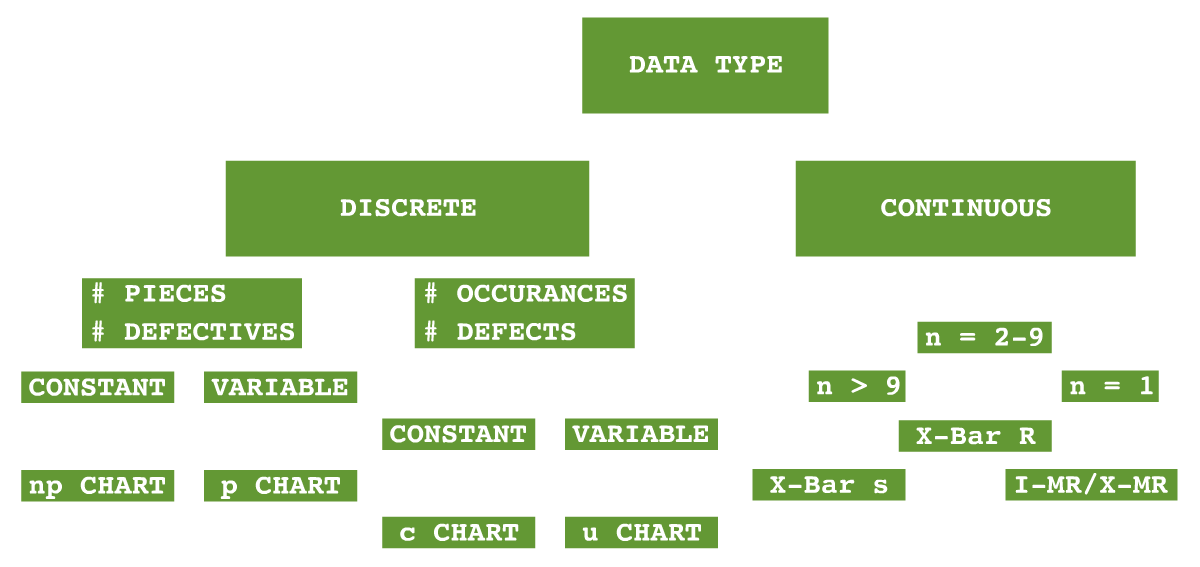
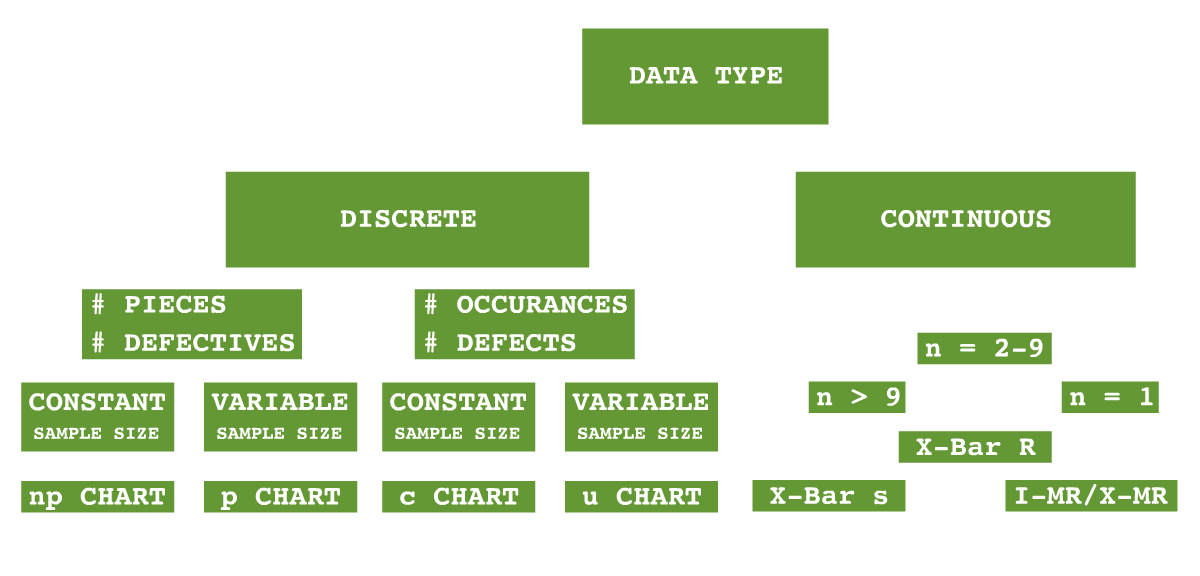
Add discrete charts

diff --git a/quality-management/charts/pn.md b/quality-management/charts/pn.md
@@ -1,0 +1,41 @@
+---
+layout: page
+title: Charts | pn Chart
+description: Number of defectives when subgroup size is constant
+image: nil
+nav-menu: false
+show_tile: false
+---
+
+<a href="../binomial.html" class="button small">Binomial</a>
+<a href="../poisson.html" class="button small">Poisson</a>
+<a href="../normal" class="button small">Normal</a>
+<a href="./" class="button special small">Charts</a>
+
+<hr />
+
+<a href="./" style="border-bottom: none;"><i class="icon fa-home">&nbsp;</i></a>
+<a href="p.html" class="button small">p Chart</a>
+<a href="pn.html" class="button special small">pn Chart</a>
+<a href="u.html" class="button small">u Chart</a>
+<a href="c.html" class="button small">c Chart</a>
+<a href="xbar-r.html" class="button small">X-Bar R</a>
+<a href="xbar-s.html" class="button small">X-Bar s</a>
+<a href="i-mr_x-mr.html" class="button small">I-MR / X-MR</a>
+
+<a href="/quality-management">&#x2190; Back to Quality Management</a>
+
+A pn chart is used when we're looking a the `number of defectives` and the subgroup size is `constant`.  Here, the distribution is `Binomial`, since an item is either defective or it's not.  Two states!  For instance, you may check a sample of your product daily and determine the number of defective items in that sample and the sample size you check is always the same, everyday.  This is where pn charts are useful.
+
+For a pn chart, the <code>n</code> is representative of the number of items inspected, while the <code>p</code> is representative of the proportion of defectives.  Thus, if the number sampled is <code>100</code> and the proportion of defects is <code>0.02</code>, then <code>pn</code> will be <code>2</code> defective items.
+
+## Control Limits
+
+Since the subgroup size is constant, so the upper and lower control limits (UCL & LCL) are also constant.  Remember, pn charts represent a `Binomial` distribution.  Therefore, the <a href="../binomial.html">Binomial calculations apply</a>.
+
+* Control Line (CL) = <span style="text-decoration: overline;">p</span>n = <code><sup>total defectives</sup>/<sub>total inspected</sub> = <sup>&Sigma;pn</sup>/<sub>&Sigma;n</sub></code>
+* Upper Control Limit (UCL) = <code><span style="text-decoration: overline;">p</span>n + 3&radic;<span style="text-decoration: overline;"> </span>&nbsp;<span style="text-decoration: overline;">p</span>n(1 - <span style="text-decoration: overline;">p</span>)</code>
+* Lower Control Limit (LCL) = <code><span style="text-decoration: overline;">p</span>n - 3&radic;<span style="text-decoration: overline;"> </span>&nbsp;<span style="text-decoration: overline;">p</span>n(1 - <span style="text-decoration: overline;">p</span>)</code>
+
+
+<a href="/quality-management">&#x2190; Back to Quality Management</a>

diff --git a/quality-management/charts/p.md b/quality-management/charts/p.md
@@ -1,0 +1,39 @@
+---
+layout: page
+title: Charts | p Chart
+description: Number of defectives when subgroup size is variable
+image: nil
+nav-menu: false
+show_tile: false
+---
+
+<a href="../binomial.html" class="button small">Binomial</a>
+<a href="../poisson.html" class="button small">Poisson</a>
+<a href="../normal" class="button small">Normal</a>
+<a href="./" class="button special small">Charts</a>
+
+<hr />
+
+<a href="./" style="border-bottom: none;"><i class="icon fa-home">&nbsp;</i></a>
+<a href="p.html" class="button special small">p Chart</a>
+<a href="pn.html" class="button small">pn Chart</a>
+<a href="u.html" class="button small">u Chart</a>
+<a href="c.html" class="button small">c Chart</a>
+<a href="xbar-r.html" class="button small">X-Bar R</a>
+<a href="xbar-s.html" class="button small">X-Bar s</a>
+<a href="i-mr_x-mr.html" class="button small">I-MR / X-MR</a>
+
+<a href="/quality-management">&#x2190; Back to Quality Management</a>
+
+A p chart is used when we're looking a the `number of defectives` and the subgroup size is `variable`.  Here, the distribution is `Binomial`, since an item is either defective or it's not.  Two states!  For instance, you may check a sample of your product daily and determine the number of defective items in that sample, but the sample size might not be the same amount each day.  This is where p charts are useful.
+
+## Control Limits
+
+Since the subgroup size is NOT constant, so the upper and lower control limits (UCL & LCL) are NOT constant, either.  So, for every sample, there will be a separate upper and lower control limit.  This results in having a `narrower` control limit the larger your sample size is.  Remember, p charts represent a `Binomial` distribution.  Therefore, the <a href="../binomial.html">Binomial calculations apply</a>.
+
+* Control Line (CL) = <span style="text-decoration: overline;">p</span> = <code><sup>total defectives</sup>/<sub>total inspected</sub> = <sup>&Sigma;pn</sup>/<sub>&Sigma;n</sub></code>
+* Upper Control Limit (UCL) = <code><span style="text-decoration: overline;">p</span> + 3&radic;<span style="text-decoration: overline;"> </span>(<sup><span style="text-decoration: overline;">p</span>(1 - <span style="text-decoration: overline;">p</span>)</sup>&frasl;<sub>n</sub>)</code>
+* Lower Control Limit (LCL) = <code><span style="text-decoration: overline;">p</span> - 3&radic;<span style="text-decoration: overline;"> </span>(<sup><span style="text-decoration: overline;">p</span>(1 - <span style="text-decoration: overline;">p</span>)</sup>&frasl;<sub>n</sub>)</code>
+
+
+<a href="/quality-management">&#x2190; Back to Quality Management</a>

diff --git a/quality-management/charts/u.md b/quality-management/charts/u.md
@@ -1,0 +1,39 @@
+---
+layout: page
+title: Charts | u Chart
+description: The defects inspected are of variable size
+image: nil
+nav-menu: false
+show_tile: false
+---
+
+<a href="../binomial.html" class="button small">Binomial</a>
+<a href="../poisson.html" class="button small">Poisson</a>
+<a href="../normal" class="button small">Normal</a>
+<a href="./" class="button special small">Charts</a>
+
+<hr />
+
+<a href="./" style="border-bottom: none;"><i class="icon fa-home">&nbsp;</i></a>
+<a href="p.html" class="button small">p Chart</a>
+<a href="pn.html" class="button small">pn Chart</a>
+<a href="u.html" class="button special small">u Chart</a>
+<a href="c.html" class="button small">c Chart</a>
+<a href="xbar-r.html" class="button small">X-Bar R</a>
+<a href="xbar-s.html" class="button small">X-Bar s</a>
+<a href="i-mr_x-mr.html" class="button small">I-MR / X-MR</a>
+
+<a href="/quality-management">&#x2190; Back to Quality Management</a>
+
+A u chart is used when we're looking a the `number of defects` and the properties of interest are `variable`.  For instance, you may check the number of pin-holes in enamel wire or the unevenness of a material.  This is where u charts are useful.
+
+## Control Limits
+
+Since the subgroup size is NOT constant, so the upper and lower control limits (UCL & LCL) are NOT constant, either.  So, for every sample, there will be a separate upper and lower control limit.  This results in having a `narrower` control limit the larger your sample size is.  Remember, u charts represent a `Poisson` distribution.  Therefore, the <a href="../poisson.html">Poisson calculations apply</a>.
+
+* Control Line (CL) = <code><span style="text-decoration: overline;">u</span> = <sup>total defects for all subgroups (c)</sup>/<sub>total units for all subgroups (n)</sub> = <sup>&Sigma;c</sup>/<sub>&Sigma;n</sub></code>
+* Upper Control Limit (UCL) = <code><span style="text-decoration: overline;">u</span> + 3&radic;<span style="text-decoration: overline;"> </span>&nbsp;<sup><span style="text-decoration: overline;">u</span></sup>&frasl;<sub>n</sub></code>
+* Lower Control Limit (LCL) = <code><span style="text-decoration: overline;">u</span> - 3&radic;<span style="text-decoration: overline;"> </span>&nbsp;<sup><span style="text-decoration: overline;">u</span></sup>&frasl;<sub>n</sub></code>
+
+
+<a href="/quality-management">&#x2190; Back to Quality Management</a>

diff --git a/quality-management/charts/c.md b/quality-management/charts/c.md
@@ -1,0 +1,39 @@
+---
+layout: page
+title: Charts | c Chart
+description: The defects inspected are of constant size
+image: nil
+nav-menu: false
+show_tile: false
+---
+
+<a href="../binomial.html" class="button small">Binomial</a>
+<a href="../poisson.html" class="button small">Poisson</a>
+<a href="../normal" class="button small">Normal</a>
+<a href="./" class="button special small">Charts</a>
+
+<hr />
+
+<a href="./" style="border-bottom: none;"><i class="icon fa-home">&nbsp;</i></a>
+<a href="p.html" class="button small">p Chart</a>
+<a href="pn.html" class="button small">pn Chart</a>
+<a href="u.html" class="button small">u Chart</a>
+<a href="c.html" class="button special small">c Chart</a>
+<a href="xbar-r.html" class="button small">X-Bar R</a>
+<a href="xbar-s.html" class="button small">X-Bar s</a>
+<a href="i-mr_x-mr.html" class="button small">I-MR / X-MR</a>
+
+<a href="/quality-management">&#x2190; Back to Quality Management</a>
+
+A c chart is used when we're looking a the `number of defects` and the properties of interest are `constant`.  For instance, you may be tallying the number of cracks in products that are otherwise identical.  This is where c charts are useful.
+
+## Control Limits
+
+Since the subgroup size is constant, so the upper and lower control limits (UCL & LCL) are also constant.  Remember, c charts represent a `Poisson` distribution.  Therefore, the <a href="../poisson.html">Poisson calculations apply</a>.
+
+* Control Line (CL) = <code><span style="text-decoration: overline;">c</span> = <sup>total defects for all subgroups (c)</sup>/<sub>total units for all subgroups (n)</sub> = <sup>&Sigma;c</sup>/<sub>&Sigma;n</sub></code>
+* Upper Control Limit (UCL) = <code><span style="text-decoration: overline;">c</span> + 3&radic;<span style="text-decoration: overline;"> </span>&nbsp;<span style="text-decoration: overline;">c</span></code>
+* Lower Control Limit (LCL) = <code><span style="text-decoration: overline;">c</span> - 3&radic;<span style="text-decoration: overline;"> </span>&nbsp;<span style="text-decoration: overline;">c</span></code>
+
+
+<a href="/quality-management">&#x2190; Back to Quality Management</a>

diff --git a/quality-management/charts/index.md b/quality-management/charts/index.md
@@ -15,6 +15,10 @@ show_tile: false
 <hr />
 
 <a href="./" class="special" style="border-bottom: none;"><i class="icon alt fa-home">&nbsp;</i></a>
+<a href="p.html" class="button small">p Chart</a>
+<a href="pn.html" class="button small">pn Chart</a>
+<a href="u.html" class="button small">u Chart</a>
+<a href="c.html" class="button small">c Chart</a>
 <a href="xbar-r.html" class="button small">X-Bar R</a>
 <a href="xbar-s.html" class="button small">X-Bar s</a>
 <a href="i-mr_x-mr.html" class="button small">I-MR / X-MR</a>

diff --git a/quality-management/charts/i-mr_x-mr.md b/quality-management/charts/i-mr_x-mr.md
@@ -15,6 +15,10 @@ show_tile: false
 <hr />
 
 <a href="./" style="border-bottom: none;"><i class="icon fa-home">&nbsp;</i></a>
+<a href="p.html" class="button small">p Chart</a>
+<a href="pn.html" class="button small">pn Chart</a>
+<a href="u.html" class="button small">u Chart</a>
+<a href="c.html" class="button small">c Chart</a>
 <a href="xbar-r.html" class="button small">X-Bar R</a>
 <a href="xbar-s.html" class="button small">X-Bar s</a>
 <a href="i-mr_x-mr.html" class="button special small">I-MR / X-MR</a>

diff --git a/quality-management/charts/xbar-r.md b/quality-management/charts/xbar-r.md
@@ -15,6 +15,10 @@ show_tile: false
 <hr />
 
 <a href="./" style="border-bottom: none;"><i class="icon fa-home">&nbsp;</i></a>
+<a href="p.html" class="button small">p Chart</a>
+<a href="pn.html" class="button small">pn Chart</a>
+<a href="u.html" class="button small">u Chart</a>
+<a href="c.html" class="button small">c Chart</a>
 <a href="xbar-r.html" class="button special small">X-Bar R</a>
 <a href="xbar-s.html" class="button small">X-Bar s</a>
 <a href="i-mr_x-mr.html" class="button small">I-MR / X-MR</a>

diff --git a/quality-management/charts/xbar-s.md b/quality-management/charts/xbar-s.md
@@ -15,6 +15,10 @@ show_tile: false
 <hr />
 
 <a href="./" style="border-bottom: none;"><i class="icon fa-home">&nbsp;</i></a>
+<a href="p.html" class="button small">p Chart</a>
+<a href="pn.html" class="button small">pn Chart</a>
+<a href="u.html" class="button small">u Chart</a>
+<a href="c.html" class="button small">c Chart</a>
 <a href="xbar-r.html" class="button small">X-Bar R</a>
 <a href="xbar-s.html" class="button special small">X-Bar s</a>
 <a href="i-mr_x-mr.html" class="button small">I-MR / X-MR</a>
